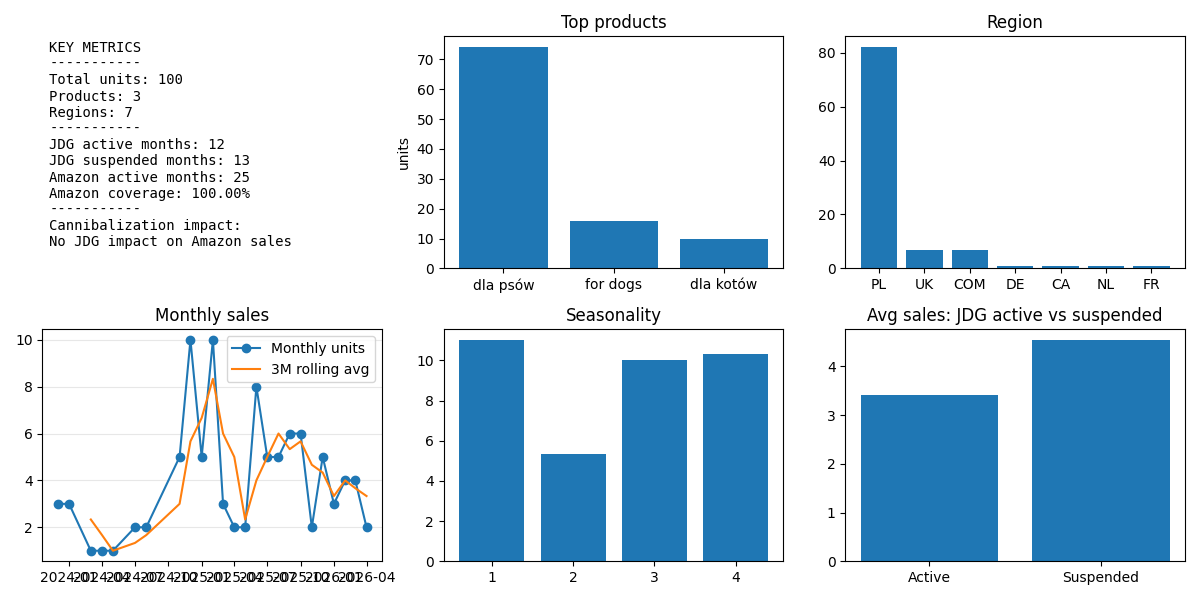
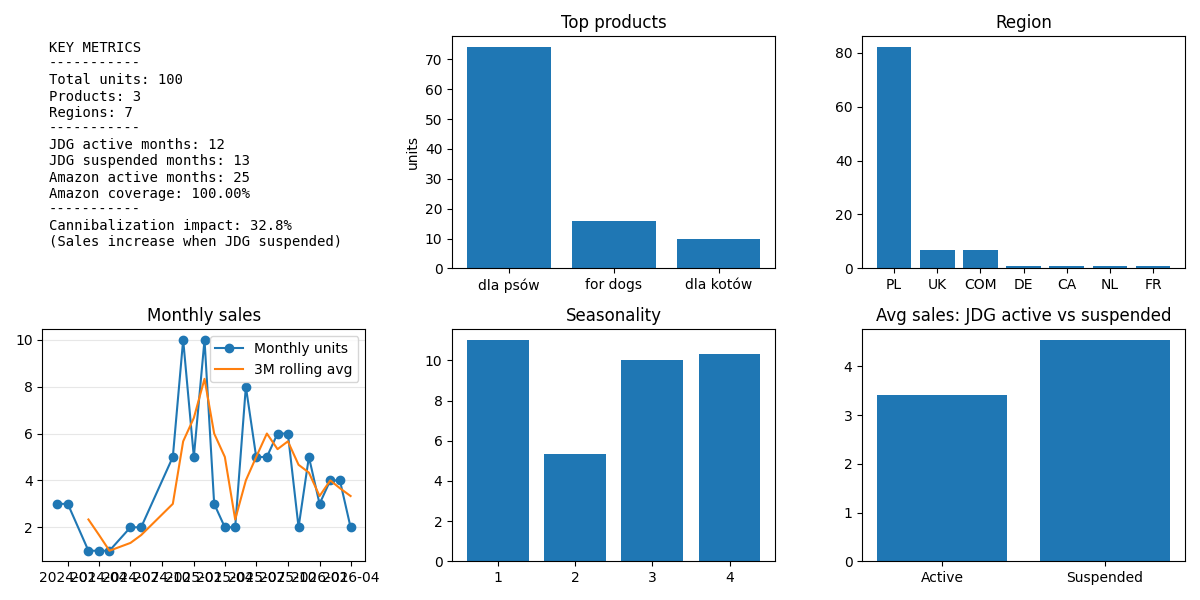
analyze: add percentage of cannibalization impact to dashboard

diff --git a/src/analyzer.py b/src/analyzer.py
@@ -156,15 +156,18 @@ class KPIAnalyzer:
         suspended_avg = grouped.get(0, 0)
 
         if active_avg == 0:
-            cannibalization_impact = "Insufficient data"
+            cannibalization_pct = 0
+            cannibalization_label = "Insufficient data"
         else:
-            ratio = suspended_avg / active_avg
+            cannibalization_pct = (suspended_avg - active_avg) / active_avg
 
-            cannibalization_impact = (
-                "No JDG impact on Amazon sales"
-                if ratio >= 1 else
-                "Possible cannibalization effect"
-            )
+            # 🔥 próg interpretacji
+            if abs(cannibalization_pct) < 0.10:
+                cannibalization_label = "No significant impact"
+            elif cannibalization_pct < 0:
+                cannibalization_label = "Sales drop when JDG suspended"
+            else:
+                cannibalization_label = "Sales increase when JDG suspended"
 
         # =========================
         # FINAL DICT
@@ -177,5 +180,6 @@ class KPIAnalyzer:
             "suspended_months": suspended_months,
             "amazon_active_months": amazon_active_months,
             "amazon_coverage": amazon_coverage,
-            "cannibalization_impact": cannibalization_impact
+            "cannibalization_impact": cannibalization_label,
+            "cannibalization_pct": cannibalization_pct
         }

diff --git a/src/visualizer.py b/src/visualizer.py
@@ -17,8 +17,8 @@ def plot_kpis(ax, kpis: dict):
         f"Amazon active months: {kpis.get('amazon_active_months', 0)}",
         f"Amazon coverage: {kpis.get('amazon_coverage', 0):.2%}",
         "-----------",
-        f"Cannibalization impact:",
-        f"{kpis.get('cannibalization_impact')}"
+        f"Cannibalization impact: {kpis.get("cannibalization_pct"):.1%} ",
+        f"({kpis.get('cannibalization_impact')})"
     ]
 
     ax.text(
